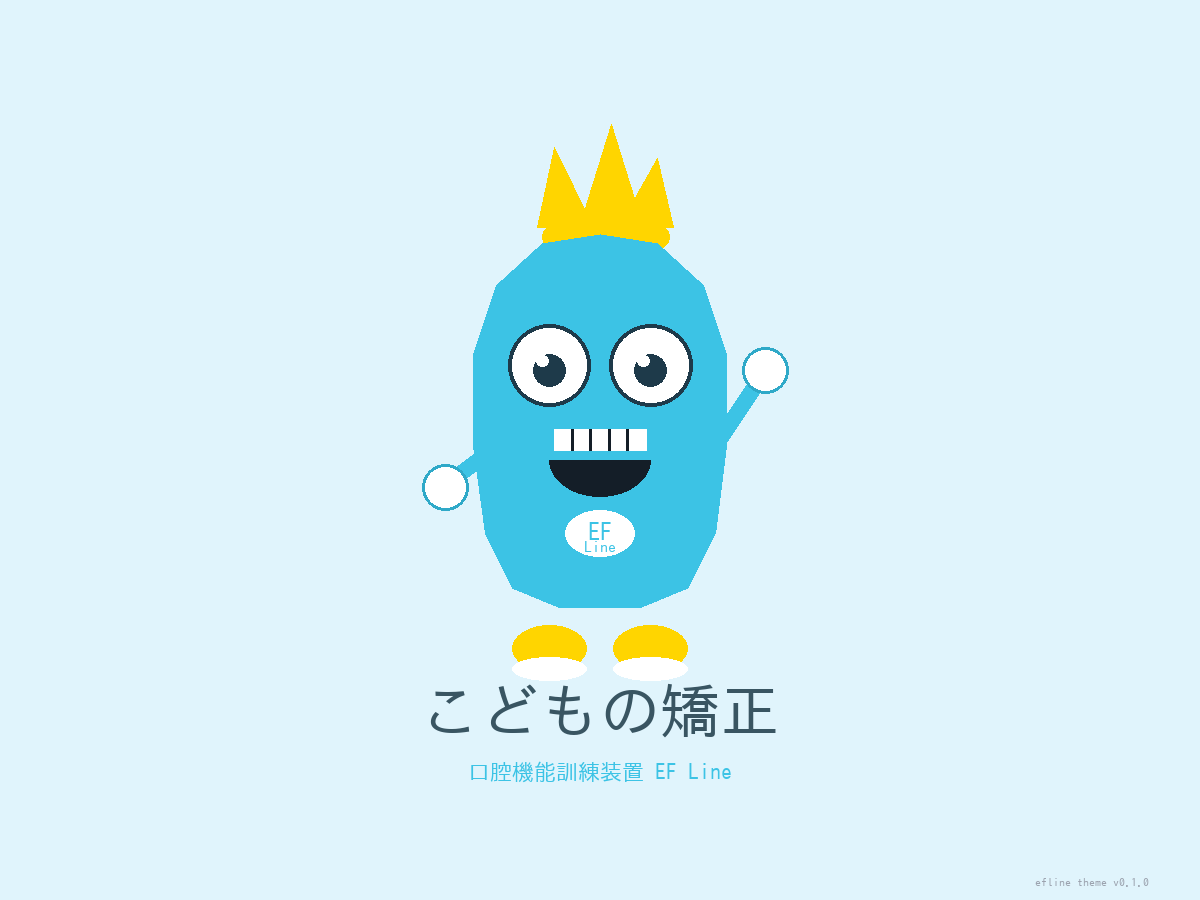
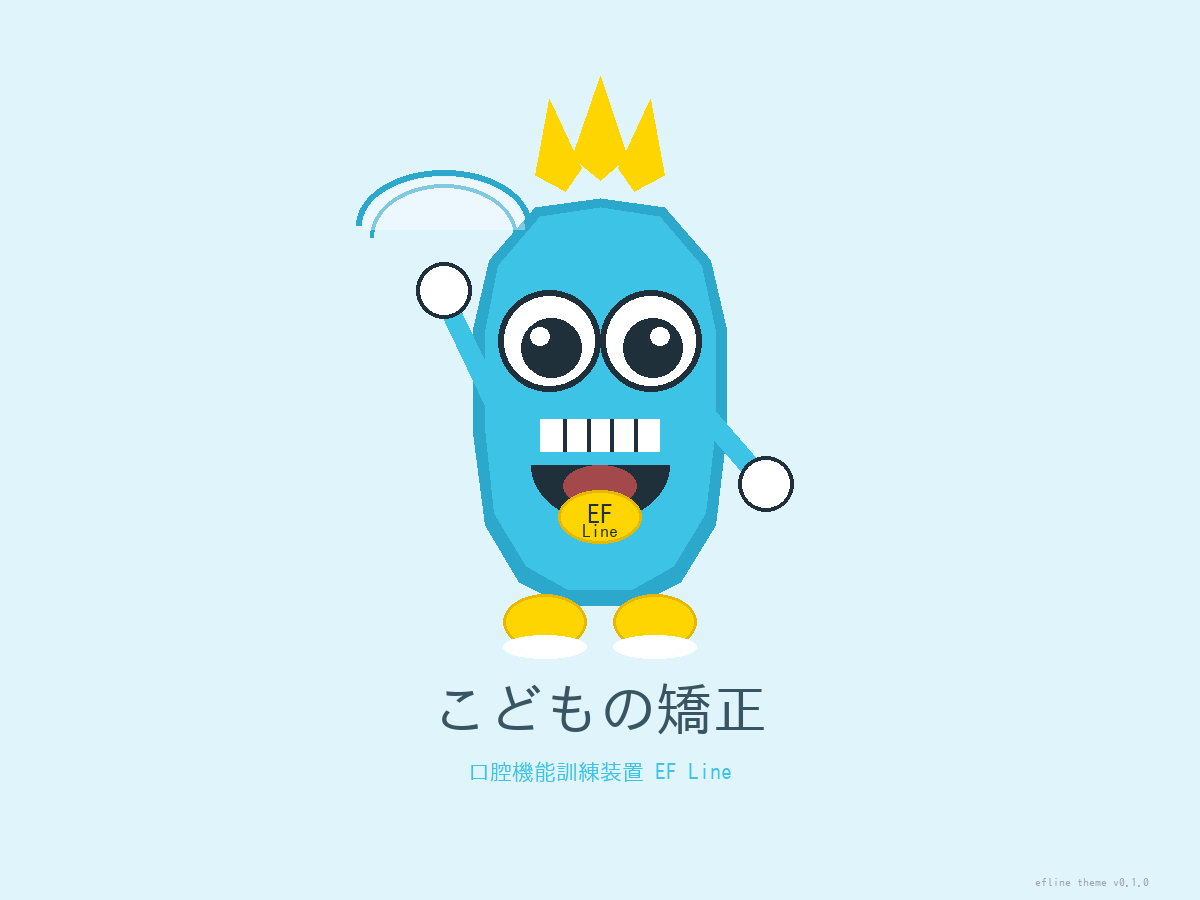
EF: 1枚目画像の見切れ修正 + マスコット screenshot 改善
1. EFの使い方ページ Section1 メイン画像が aspect-ratio 1/1 +
   object-fit:cover で見切れていた問題を修正
   - assets/css/page.css: .p-kodomo-card__media--contain を追加
     (object-fit: contain + padding 12px で全体が見える表示)
   - template-ef-tsukaikata.php: メイン画像の figure に
     --contain 修飾子クラスを付与

2. screenshot.png をユーザー添付の本物マスコットに近づけて再描画
   - 黄色トゥフト (上向き3羽根)
   - 巨大な目 + 大きな黒目 + 白いハイライト
   - 大きく開いた笑顔に上下の歯
   - 左手に透明な馬蹄形リテーナー
   - 「EF Line」黄色オーバル胸バッジ
   - 黄色い丸い靴 + 白い靴底

   ※添付画像の正確な複製にはなりません (添付ファイルをサーバ側
   から取得できないため Pillow で再現)。実画像を使う場合は
   /home/user/efline/screenshot.png を直接上書きしてください。

https://claude.ai/code/session_01JjKVortH6Xjv74VRLPPhxn

Changed region(s): [[0.2775, 0.0933, 0.6783, 0.84]]

diff --git a/assets/css/page.css b/assets/css/page.css
@@ -462,6 +462,13 @@
 	display: block;
 }
 
+/* 製品写真など全体を見せたい画像はこちら（contain で見切れ防止） */
+.p-kodomo-card__media--contain img {
+	object-fit: contain;
+	padding: 12px;
+	box-sizing: border-box;
+}
+
 .p-kodomo-card__head {
 	display: flex;
 	align-items: center;

diff --git a/template-ef-tsukaikata.php b/template-ef-tsukaikata.php
@@ -63,7 +63,7 @@ efline_page_hero( array(
 				</ul>
 			</div>
 		</div>
-		<figure class="p-kodomo-card__media">
+		<figure class="p-kodomo-card__media p-kodomo-card__media--contain">
 			<img src="<?php echo esc_url( $ef_images["main"]["url"] ); ?>" alt="<?php echo esc_attr( $ef_images["main"]["alt"] ); ?>" loading="lazy">
 		</figure>
 	</section>
